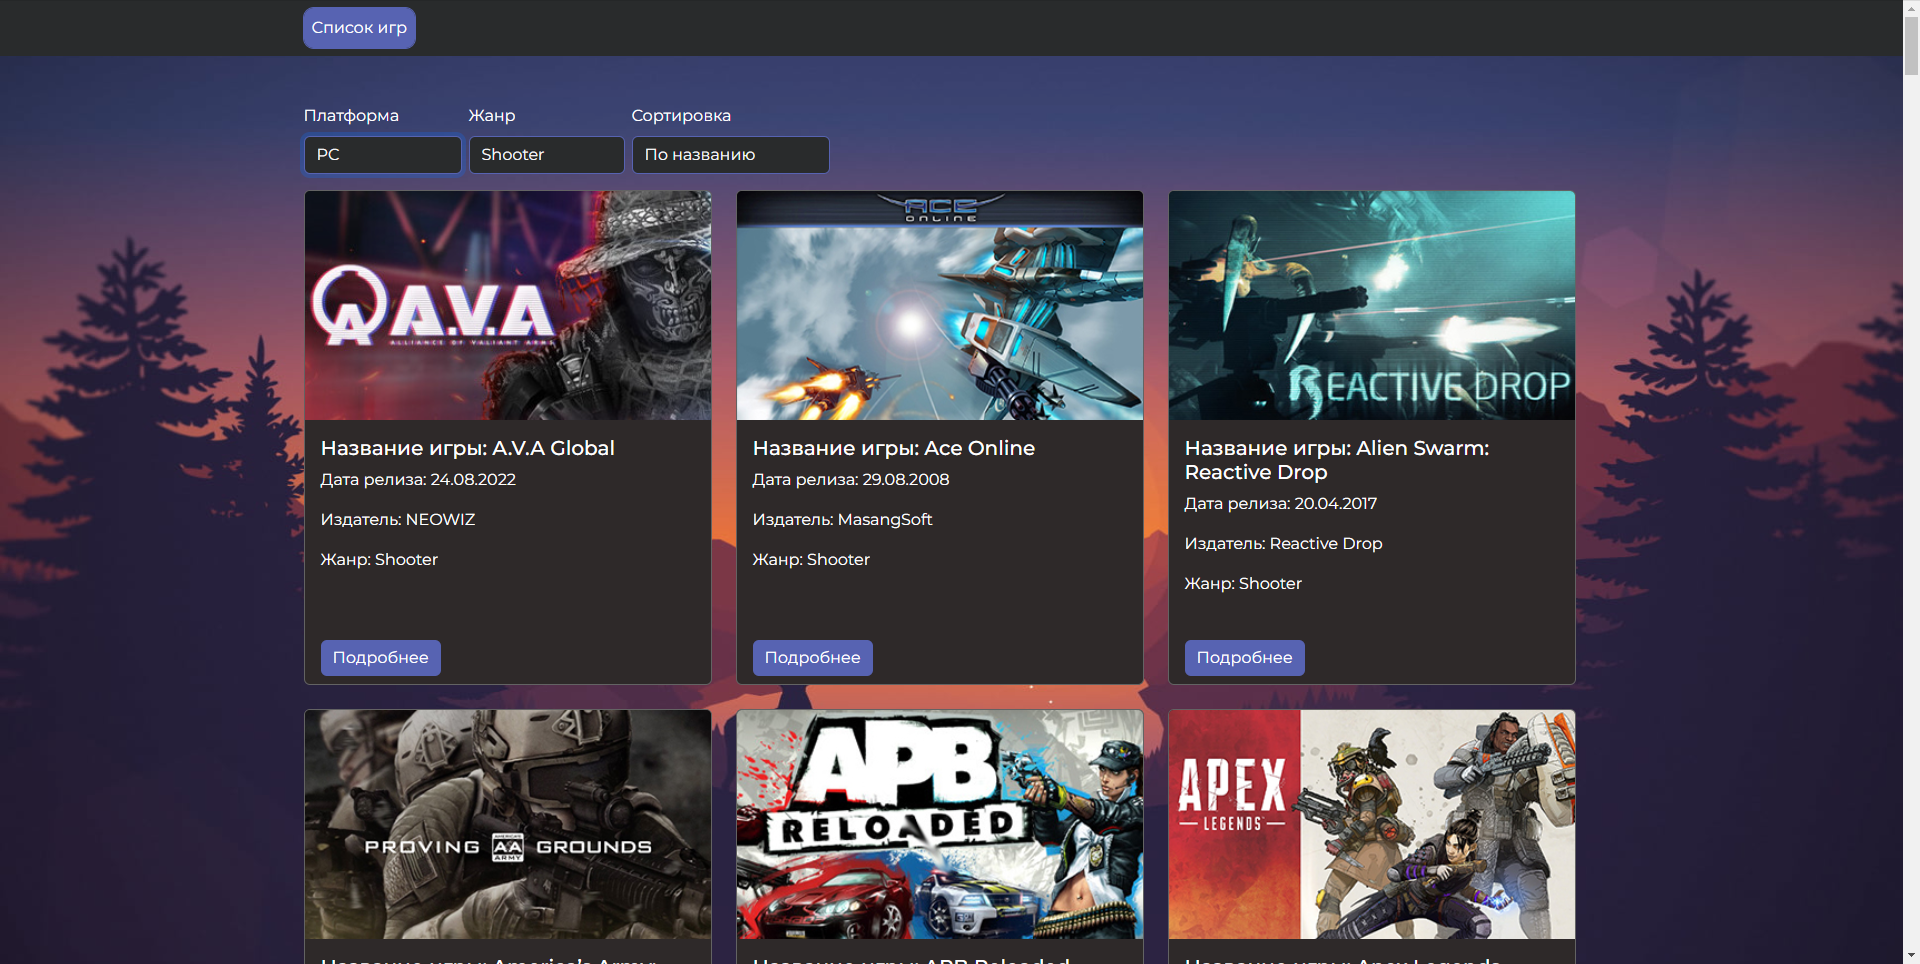
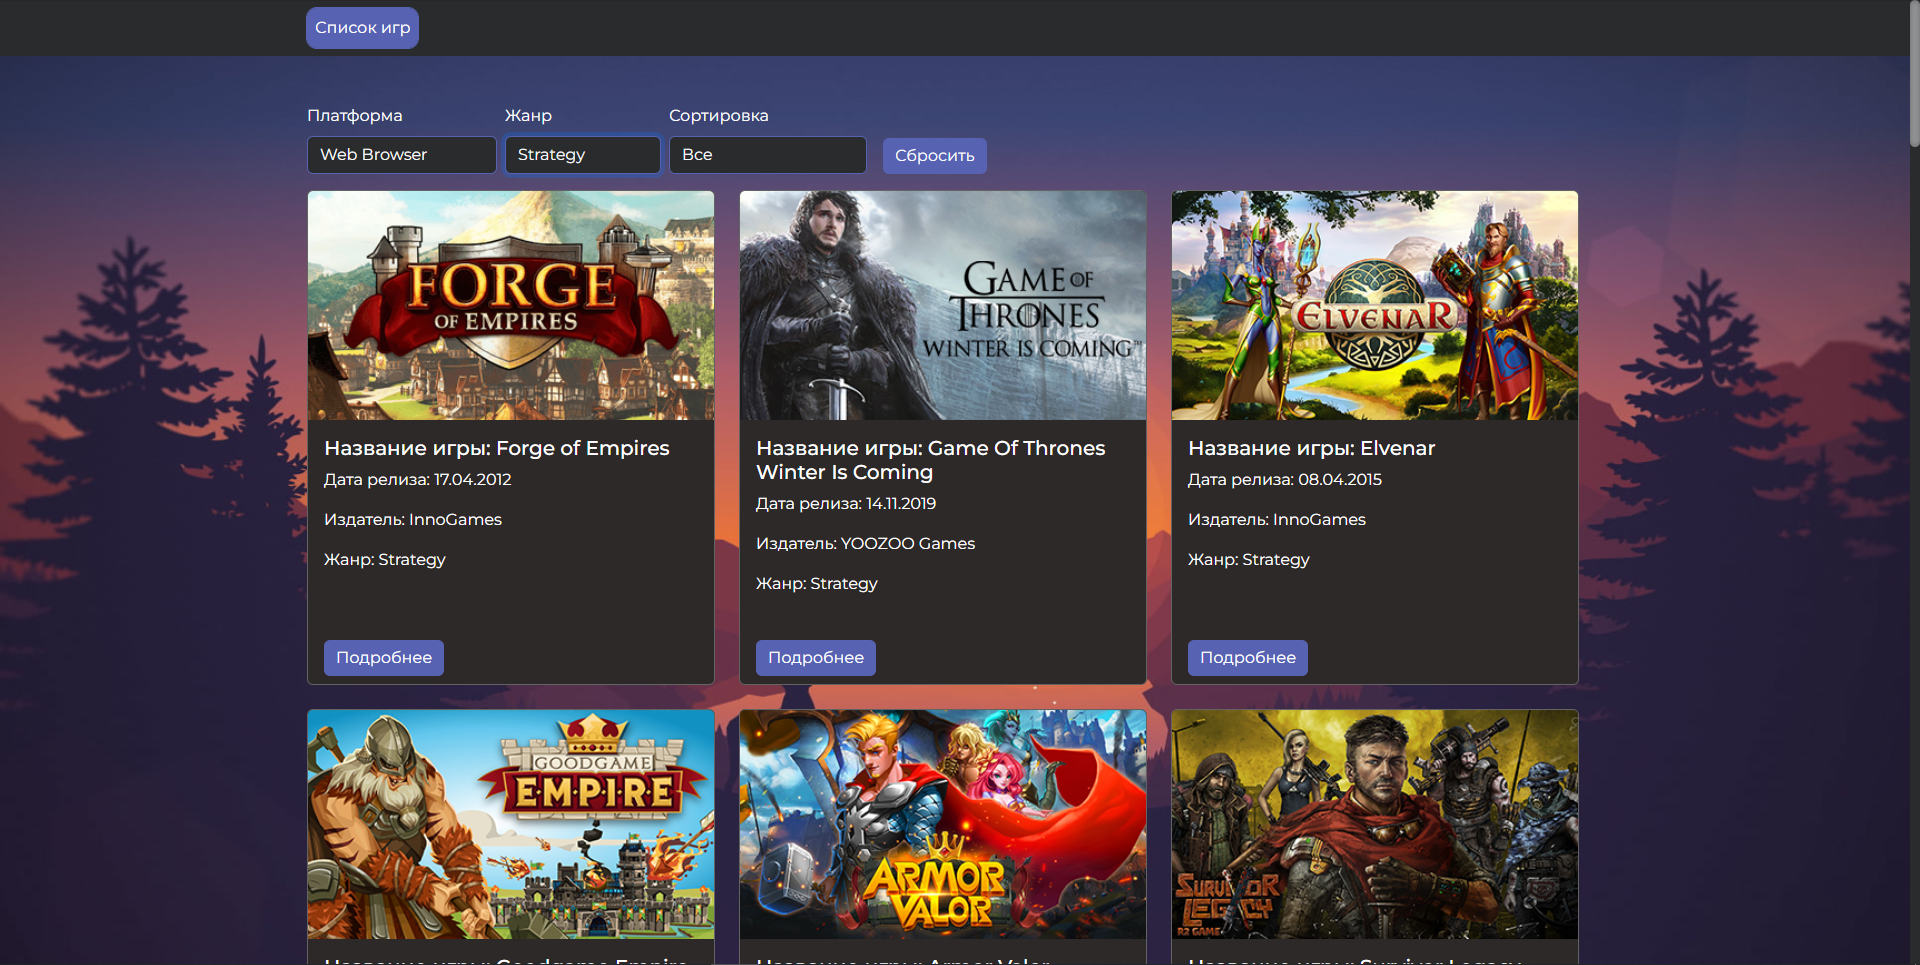
update readme

diff --git a/src/index.css b/src/index.css
@@ -16,6 +16,22 @@ body {
   background-position: center;
 }
 
+body::-webkit-scrollbar {
+  background: var(--gray-middle);
+  width: 10px;
+  box-shadow: inset 2px 2px 5px 0 rgba(#fff, 0.5);
+  /* border-radius: 100px; */
+  cursor: pointer;
+}
+
+body::-webkit-scrollbar-thumb {
+  width: 100%;
+  box-shadow: inset 0 0 6px rgba(0, 0, 0, 0.3);
+  background: rgba(255, 255, 255, 0.5);
+  border-radius: 100px;
+  cursor: pointer;
+}
+
 .navbar {
   background-color: var(--gray-middle);
 }

diff --git a/README.md b/README.md
@@ -22,3 +22,4 @@
 # Пример работы
 
 ![img](/public/screen.png)
+![img](/public/screen_one.png)
